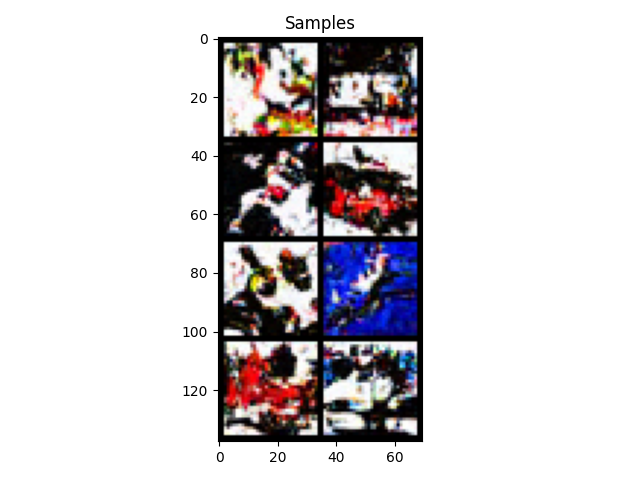
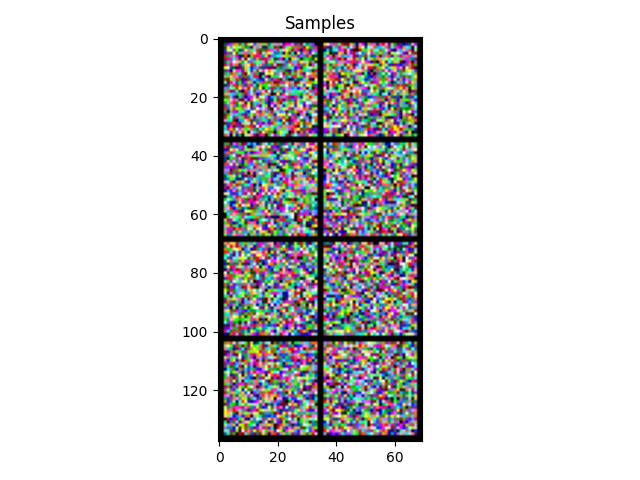
finished

Changed region(s): [[0.3438, 0.0625, 0.6562, 0.9062]]

diff --git a/generative-modeling/diffusion/model.py b/generative-modeling/diffusion/model.py
@@ -2,6 +2,7 @@ import torch
 import torch.nn as nn
 import torch.nn.functional as F
 
+import numpy as np
 from utils import (
     cosine_beta_schedule,
     default,
@@ -27,15 +28,20 @@ class DiffusionModel(nn.Module):
         self.self_condition = self.model.self_condition
         self.device = torch.cuda.current_device()
 
+        self.num_timesteps = timesteps   #self.betas.shape[0]
+        if sampling_timesteps:
+            self.time_steps = np.asarray(list(range(1, self.num_timesteps, self.num_timesteps//sampling_timesteps))) + 1
+            print(self.time_steps.shape)
+        else:
+            self.time_steps = np.arange(timesteps)
+        
         self.betas = cosine_beta_schedule(timesteps).to(self.device)
-        self.num_timesteps = self.betas.shape[0]
-
         alphas = 1. - self.betas
         # TODO (Q3.1): compute the cummulative products for current and previous timesteps
         
         self.alphas_cumprod = torch.cumprod(alphas, axis=0)
         self.alphas_cumprod_prev = F.pad(self.alphas_cumprod[:-1], (1, 0), value=1.0)
-
+        
         # TODO (Q3.1): pre-compute the alphas needed for forward process
         # Hint: you should look at all the equations and see what you can pre-compute
         self.sqrt_recip_alphas = torch.sqrt(1.0 / alphas)
@@ -132,9 +138,12 @@ class DiffusionModel(nn.Module):
     def ddim_sample(self, shape):
         # TODO (Q3.2.1): implement the DDIM sampling process.
         # 'uniform':
+        print(f"Using ddim sampling:{len(range(0, self.num_timesteps, self.num_timesteps//self.sampling_timesteps))} time steps.")
         img = torch.randn(shape, device=torch.device(self.device))
-        time_steps = range(1, self.num_timesteps, self.num_timesteps//self.sampling_timesteps)
-        for t in time_steps[::-1]:
-            img, x_0 = self.predict_denoised_at_prev_timestep(img, torch.tensor(t).to(self.device))
+        #for t in range(0, self.num_timesteps, self.num_timesteps//self.ddim_sampling_eta)[::-1]:
+        for t in range(0, self.num_timesteps)[::-1]:
+            new_img, x_0 = self.predict_denoised_at_prev_timestep(img, torch.tensor(t).to(self.device))
+            if t %self.sampling_timesteps==0:
+                img = new_img
         img = unnormalize_to_zero_to_one(img)
         return img
